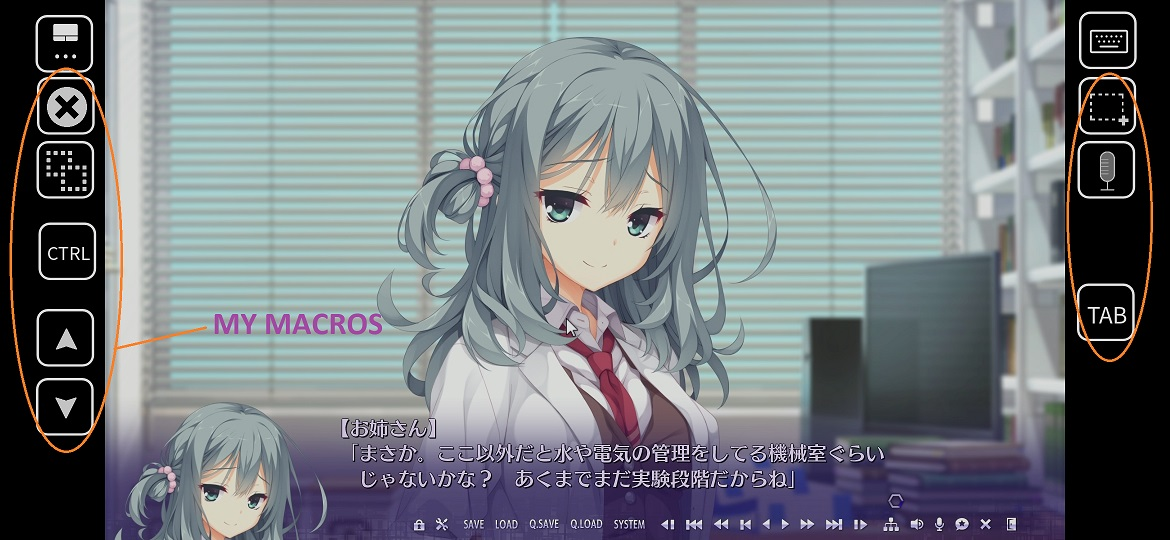
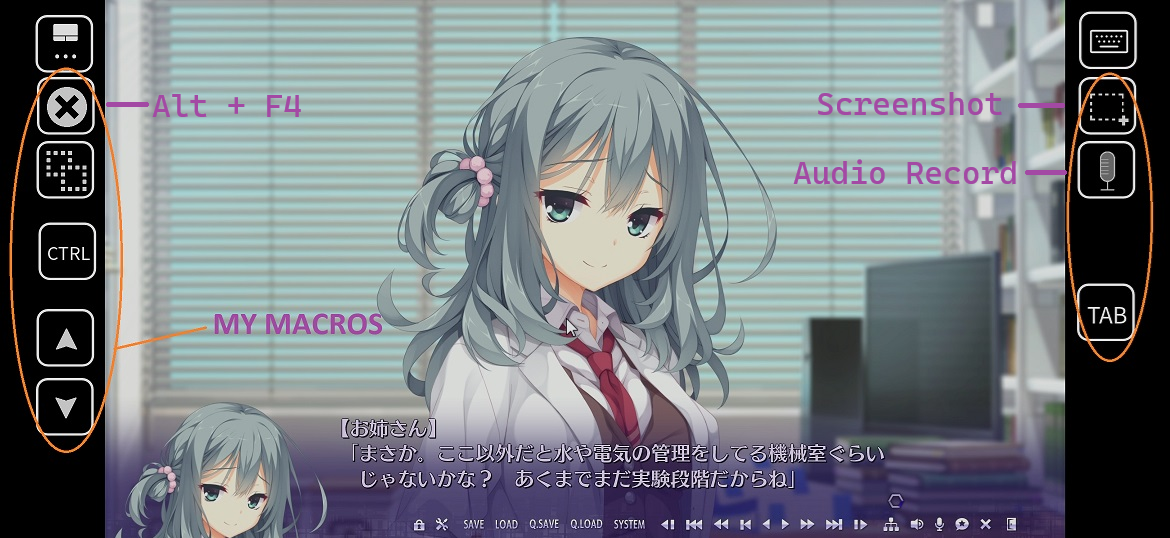
$updated info

diff --git a/docs/jp-lazy-guide/setupVnOnAndroid.md b/docs/jp-lazy-guide/setupVnOnAndroid.md
@@ -8,13 +8,13 @@
 
 ## Requirements
 
-For `PC`:
+For PC:
 
-- [Yomitan On PC](setupYomitanOnPC.md) already set-up
+- [Yomitan On PC](setupYomitanOnPC.md) and [VN on PC](setupVnOnPC.md) already set-up
 
-- Running `Anki`, `Steam` and `Texthooker` page
+- Running `Anki`, `Steam`, `Textractor` and `Texthooker` page
 
-For `Android`:
+For Android:
 
 - Install and Run [Steam Link](https://play.google.com/store/apps/details?id=com.valvesoftware.steamlink&hl=en_US)
 
@@ -31,7 +31,7 @@ For `Android`:
 
     ![Steam Settings](../img/steam-settings.png){height=250 width=500}
 
-2. Customize your `M1-M8` with whatever keybinds you like for your mining or whatever like ShareX e.g. `alt + shift + C`
+2. Customize your `M1-M8` with whatever keybinds you like for your mining or whatever like ShareX e.g. `alt + shift + C` (screenshot)
 
     ![Steam Controller Settings](../img/steam-controller-settings.png){height=500 width=1000}
 
@@ -39,7 +39,9 @@ For `Android`:
 
     ![Steam Link Settings](../img/steam-link-settings.png){height=500 width=1000}
 
-4. Use `Steam link` > `shake your android`(if icon is not there) > open the `top left icon` > `Touch Controller` ENABLED > `Layout Controls` > add your macros wherever, erase controller buttons as you won't need them
+4. Use `Steam link` > `shake your android`(if icon is not there) > open the `top left icon` > `Touch Controller` ENABLED > `Layout Controls`
+    - Add your macro buttons; like screenshot, audio record, ctrl etc.
+    - Erase controller buttons as you won't need them
 
     ![Steam Link Macros](../img/steam-link-macros.png){height=500 width=1000}
 
@@ -47,11 +49,10 @@ For `Android`:
 
     ![Steam Link Mouse](../img/steam-link-mouse.png){height=500 width=1000}
 
-6. Launch your VN
+6. On your `PC` make sure `Texthooker Page` and `Visual Novel` is on different screen, then run your `Steam Link`
+    - Make sure when you run your `Visual Novel`, it is not launched via `Steam` or controller layout would not work
 
-!!! danger "Note"
-
-    Make sure `Big Picture` is not disabled/selected from step 3 and that you launch your `Visual Novel` out of steam, or else controller layout will not work
+7. Proceed to [Yomitan Configuration](setupVnOnAndroid.md/#yomitan-configuration) and [Mining VN on Android](setupVnOnAndroid.md/#mining-vn-on-android)
 
 ---
 
@@ -75,17 +76,17 @@ For `Android`:
 
 ## Mining VN on Android
 
-1. `Drag your mouse` out of your screen to where your 2nd monitor
+1. `Drag your mouse` out of your screen to where your other monitor is(left or right)
 
 2. `TAP` your screen to switch monitor
 
-3. `Add Yomitan` word like usual
+3. `Add Yomitan` words like usual
 
-4. `Use the macros` that you've set for screenshot/audio (`ShareX`)
+4. `Use the macros` that [you've set](setupVnOnAndroid.md/#setting-up) for screenshot/audio (`ShareX`)
 
 !!! info "Note"
 
-    If you only have 1 monitor, customize your `Steam Controller Settings` > `M1-M8` and put a `alt-tab` macro
+    If you only have 1 monitor, customize your `Steam Controller Settings` > [M1-M8](setupVnOnAndroid.md/#setting-up) and put an `alt-tab` macro
 
 Macros on my Steam Link:
 
